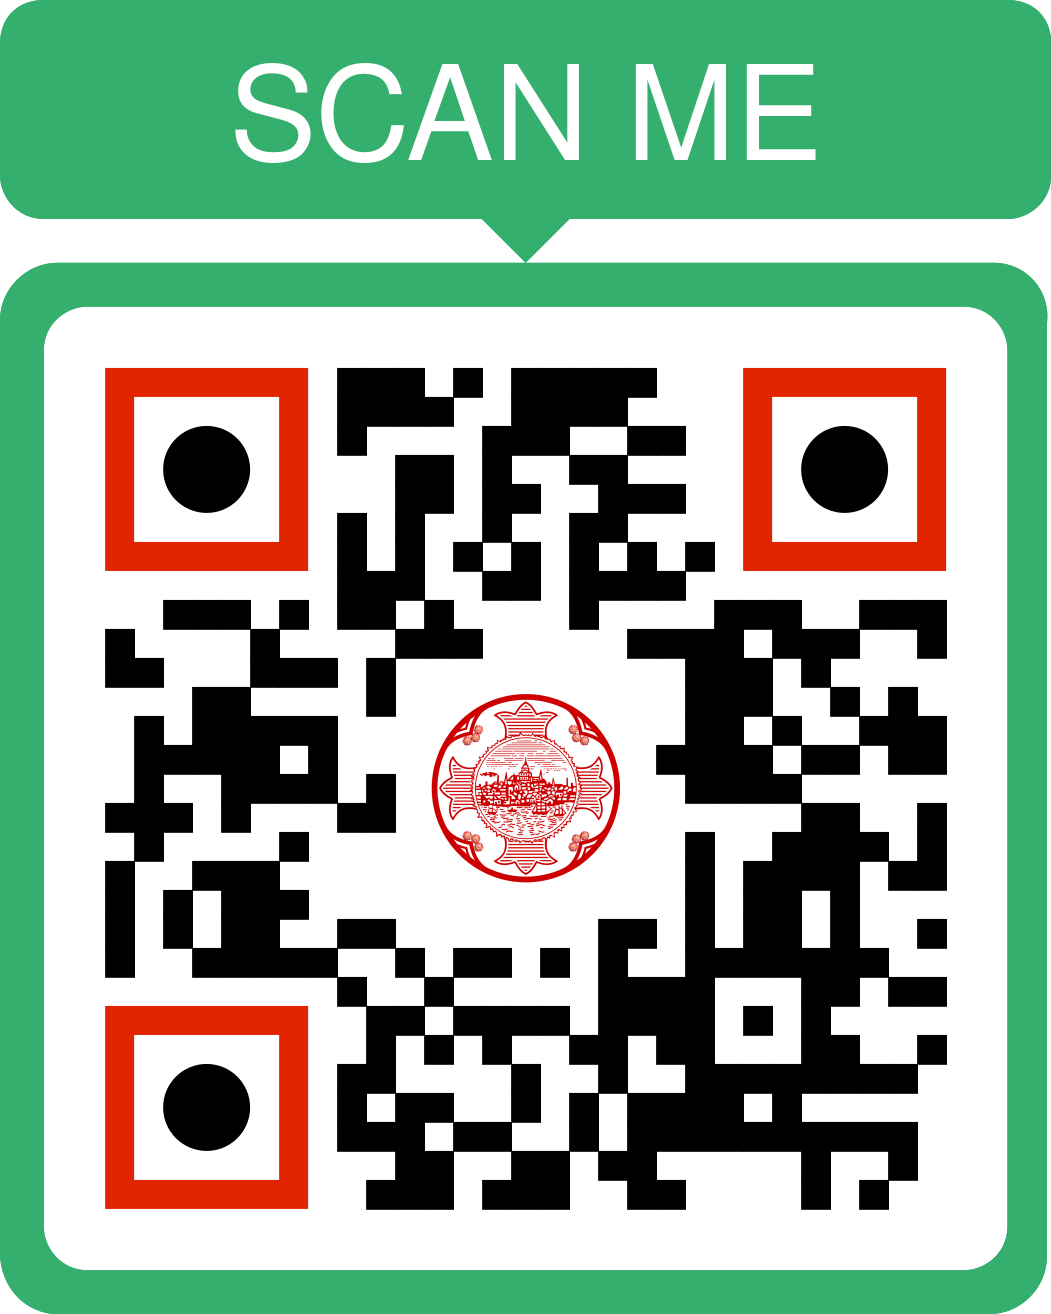
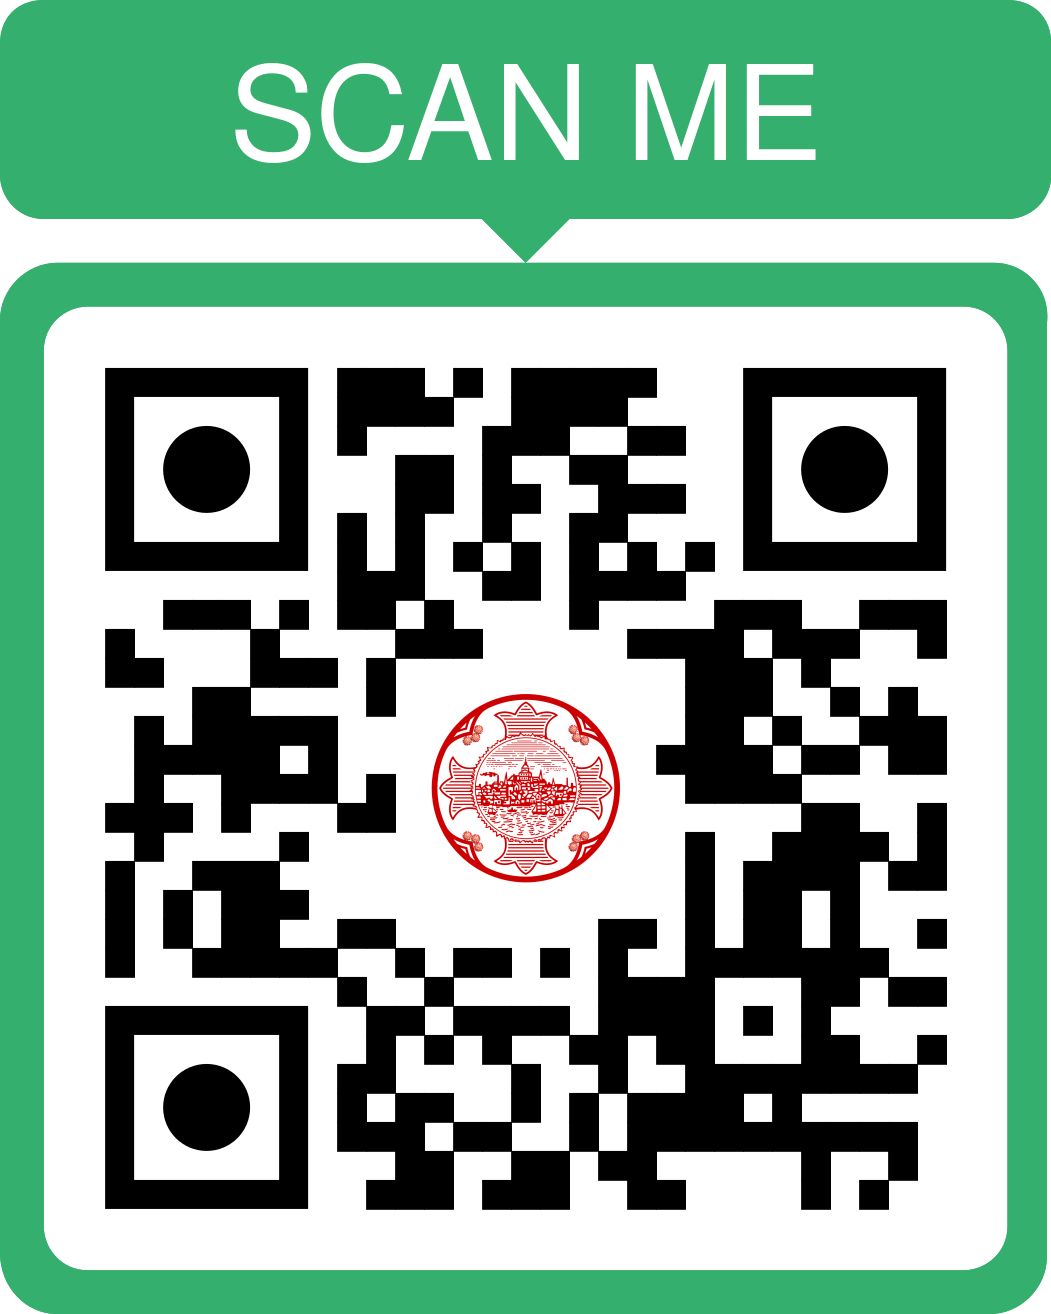
clean code -1

Changed region(s): [[0.0913, 0.7489, 0.3045, 0.9361], [0.7003, 0.2808, 0.9134, 0.4368], [0.0913, 0.2808, 0.3045, 0.4368]]

diff --git a/templates/manage_dashboard.html b/templates/manage_dashboard.html
@@ -24,15 +24,11 @@
             <i class="fas fa-layer-group"></i>
             <span class="nav-item">Class</span>
           </a></li>
-         
         <li><a href="#" data-target="student">  <!-- qr code -->
           <i class="fas fa-solid fa-qrcode"></i>
           <span class="nav-item">QR code</span>
         </a></li>
-        <!-- <li><a href="#" data-target="attendance">
-          <i class="fas fa-chart-bar"></i>
-          <span class="nav-item">Attendance</span>
-        </a></li> -->
+
         <form action="/logout" method="post" id="logout-form"></form>
           <li>
             <a href="＃" onclick="document.getElementById('logout-form').submit();" class="logout">
@@ -110,54 +106,11 @@
           <div class="header-container">
             <div>
               <h1>QR Code</h1>
-              <img src="../static/image/QRcode2.png" width="500" height="625">
+              <img src="../static/image/QRcode.png" width="500" height="625">
             </div>
           </div>
         </div>
       </section>
-
-      <!-- <section class="attendance">
-        <div class="attendance-list">
-          <div class="header-container">
-          <h1>Attendance List</h1>
-          </div>
-          <table class="table">
-            <thead>
-              <tr>
-                <th>Student ID</th>
-                <th>Student First Name</th>
-                <th>Student Last Name</th>
-                <th>Last Attendance Date</th>
-                <th>Number of Attendances</th>
-                <th>Details</th>
-              </tr>
-            </thead>
-            <tbody>
-              <tr>
-                <td>U00000001</td>
-                <td>Sam</td>
-                <td>David</td>
-                <td>03-24-22</td>
-                <td>4</td>
-                <td><button>View</button></td>
-              </tr>
-              <tr>
-                <td>U00000002</td>
-                <td>Balbina</td>
-                <td>Kherr</td>
-                <td>03-24-22</td>
-                <td>3</td>
-                <td><button>View</button></td>
-              </tr>
-            </tbody>
-          </table>
-          <div class="search-student">
-            <input type="text" id="studentSearch" placeholder="Search for a Student...">
-            <button id="searchBtn">Search</button>
-          </div>
-        </div>
-      </section>
-    </section> -->
   </div>
 
 </body>
@@ -167,7 +120,6 @@
 
 <script>
     const nav = document.querySelector("nav ul");
-    // const sections = document.querySelectorAll(".class, .attendance, .student");
     const sections = document.querySelectorAll(".class, .student");
   
     nav.addEventListener("click", function(e) {

diff --git a/templates/student_list.html b/templates/student_list.html
@@ -23,10 +23,6 @@
               <i class="fas fa-solid fa-qrcode"></i>
               <span class="nav-item">QR code</span>
             </a></li>
-            <!-- <li><a href="#" data-target="attendance">
-              <i class="fas fa-chart-bar"></i>
-              <span class="nav-item">Attendance</span>
-            </a></li> -->
             <li><a href="#" class="logout">
               <i class="fas fa-sign-out-alt"></i>
               <span class="nav-item">Log out</span>
@@ -49,11 +45,10 @@
               <table class="table">
                 <thead>
                   <tr>
-                    <th>Student ID</th>
-                    <th>Student First Name</th>
-                    <th>Student Last Name</th>
+                    <th>BU ID</th>
+                    <th>First Name</th>
+                    <th>Last Name</th>
                     <th>Attendence</th>
-                    <!-- <th>Detail</th> -->
                   </tr>
                 </thead>  
                 <tbody>
@@ -63,7 +58,6 @@
                         <td>{{ student[1] }}</td>
                         <td>{{ student[2] }}</td>
                         <td>{{ student[3] }}</td>
-                        <!-- <td><button>Detail</button></td> -->
                     </tr>
                     {% endfor %}
                   </tbody>
@@ -71,14 +65,8 @@
               <div class="back-link">
                 <a href="{{ url_for('manage_dashboard') }}">Back to dashboard</a>
               </div>
-              <!-- <div class="search-student">
-                <input type="text" id="studentSearch" placeholder="Search for a Student...">
-                <button id="searchBtn">Search</button>
-              </div> -->
             </div>
           </section>
-          
-    
           
         </section>
       </div>

diff --git a/templates/attend_form.html b/templates/attend_form.html
@@ -11,7 +11,7 @@
                 <form action="/submit_attend" method="post" class="submit_attend" enctype="multipart/form-data">
                     <div class="input-group">
                         <label for="course_id">Student ID</label>
-                        <input type="text" name="student_id" placeholder="Enter Your Student ID">
+                        <input type="text" name="student_id" placeholder="Enter Your Student ID" required>
                     </div>
     
                     <div class="submit-group">

diff --git a/app.py b/app.py
@@ -52,6 +52,7 @@ def get_CourseDB_connection():
         print(e)
         return -1
 
+#Global variable of db connection
 attend_r = get_AttendDB_connection()
 student_r = get_StudentDB_connection()
 course_r = get_CourseDB_connection()
@@ -62,6 +63,7 @@ def close_redis_connection():
     student_r.close()
     course_r.close()
 
+#Close the db connections if the application stop
 atexit.register(close_redis_connection)
 
 # login OK
@@ -113,7 +115,7 @@ def logout():
     return render_template('sign_in.html', message='Log out successfully!')
 
 
-#OK function for add course
+#OK function for adding course
 def all_matching_weekdays_between(start_date, end_date):
     # Parsing the input dates to datetime objects
     start = datetime.strptime(start_date, "%Y-%m-%d")
@@ -148,12 +150,12 @@ def studentId_isValid(id):
         return False
 
 #OK
-def date_isValid(date_str):
-    try:
-        datetime.strptime(date_str, '%Y-%m-%d')
-        return True  
-    except ValueError:
-        return False  
+# def date_isValid(date_str):
+#     try:
+#         datetime.strptime(date_str, '%Y-%m-%d')
+#         return True  
+#     except ValueError:
+#         return False  
 
 #OK
 @app.route('/')
@@ -167,8 +169,7 @@ def update_students_from():
     if request.method == 'POST':
         course_section = request.form.get("course_section")
         return render_template('update_students_form.html', course_section = course_section)
-    return render_template('messege.html', message="Wrong request type.")
-
+    return redirect(url_for('manage_dashboard'))
 
 #OK
 @app.route('/update_students', methods=['POST'])
@@ -176,14 +177,14 @@ def update_students_from():
 def update_students():
     if request.method == 'POST':
         if 'student_info' not in request.files:
-            return render_template('managedash_board.html', message='No file part')
+            return render_template('update_students_form.html', message='No file part')
         file = request.files['student_info']
         # If the user does not select a file, the browser submits an
         # empty file without a filename.
         if file.filename == '':
-            return render_template('managedash_board.html', message='No selected file')
+            return render_template('update_students_form.html', message='No selected file')
         if not file.filename.lower().endswith('.csv'):
-            return render_template('managedash_board.html', message='File is not a CSV')
+            return render_template('update_students_form.html', message='File is not a CSV')
     
         course_name = request.form.get("course_section")
         
@@ -304,14 +305,14 @@ def add_course_form():
 def add_course():
     if request.method == 'POST':
         if 'student_info' not in request.files:
-            return render_template('managedash_board.html', message='No file part')
+            return render_template('add_course_form.html', message='No file part')
         file = request.files['student_info']
         # If the user does not select a file, the browser submits an
         # empty file without a filename.
         if file.filename == '':
-            return render_template('managedash_board.html', message='No selected file')
+            return render_template('add_course_form.html', message='No selected file')
         if not file.filename.lower().endswith('.csv'):
-            return render_template('managedash_board.html', message='File is not a CSV')
+            return render_template('add_course_form.html', message='File is not a CSV')
     
         course_name = request.form.get("course_section")
         days = request.form.get("days")
@@ -358,7 +359,7 @@ def attend():
         if not studentId_isValid(student_id):
             return render_template('attend_form.html', message="Student ID is invalid.")
             
-        # check if student exist in "Student db"
+        # check if student exists in "Student db"
         if not student_r.exists(student_id):
             return render_template('attend_form.html', message="Student does not exist.")
         
